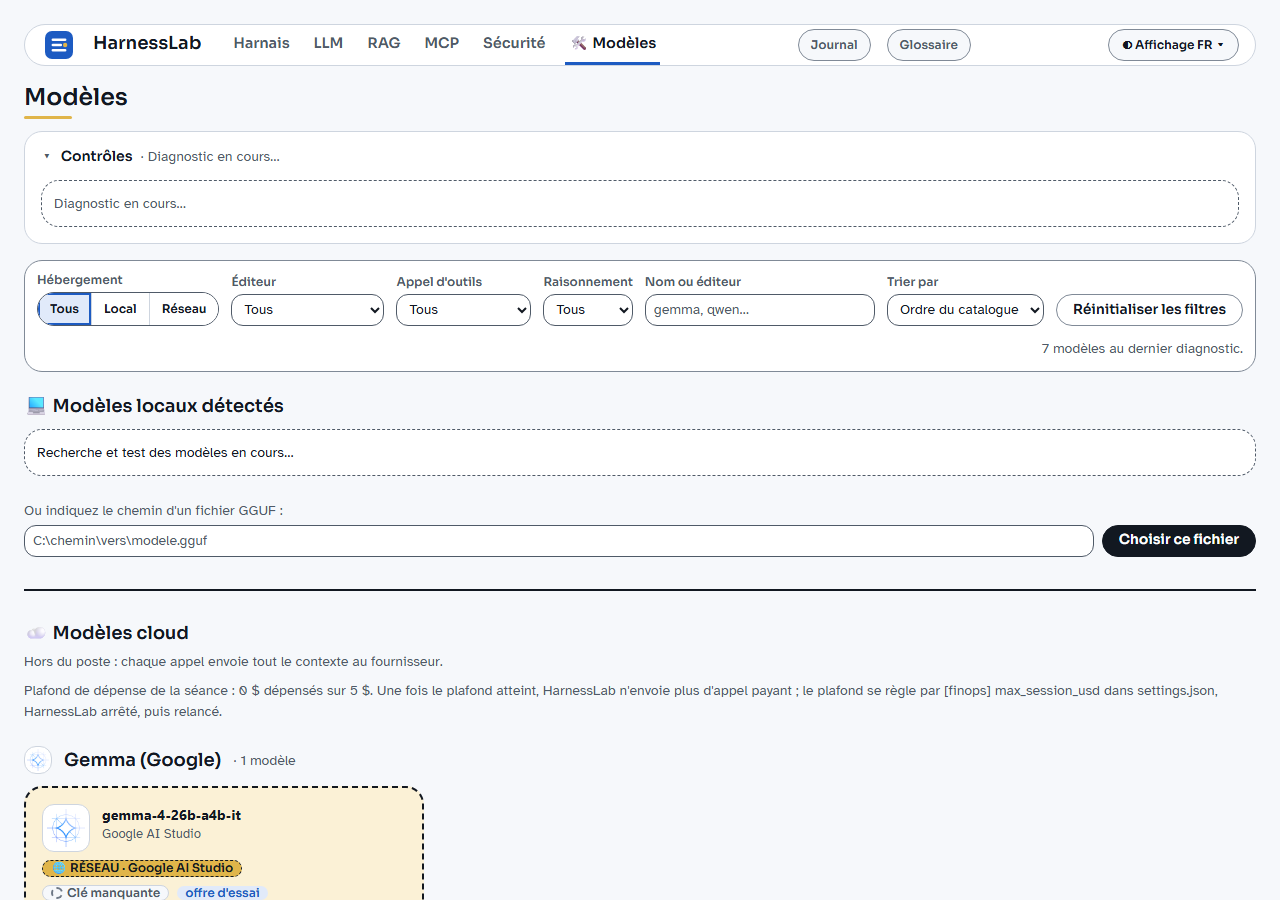
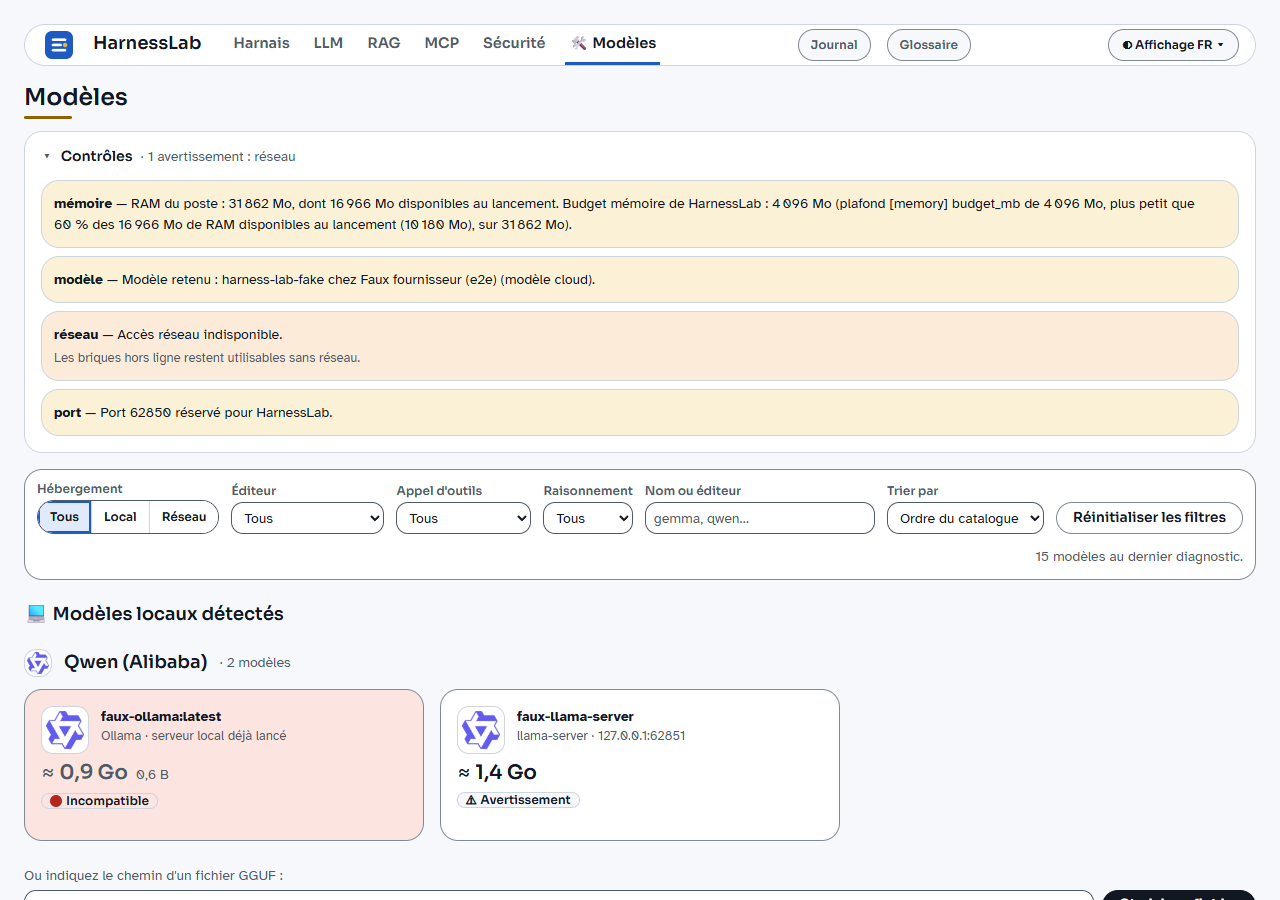
v2.1.1 : filet or en clair conforme à la charte (accent #8F6300) (#178)
* v2.1.1 : filet or des titres en clair à la valeur accent de la charte

* Revue passe 1 : DESIGN aligné (filet, palette), test par bloc, captures claires complètes

Claude-Session: https://claude.ai/code/session_013Ao9KA4hxeZXhrqkXDoPk8

---------

diff --git a/src/harness_lab/web/static/tokens.css b/src/harness_lab/web/static/tokens.css
@@ -198,7 +198,7 @@
   --color-on-discipline: #FFFFFF;
   --color-on-vivid: #141A1F;
   --color-on-status: #FFFFFF;
-  --color-title-rule: #E0B54A;
+  --color-title-rule: #8F6300;
   --color-warning-soft: #FDEBDA;
   --color-danger-soft: #FCE4E1;
   --color-logo-tile: #FFFFFF;
@@ -268,7 +268,7 @@
     --color-on-discipline: #FFFFFF;
     --color-on-vivid: #141A1F;
     --color-on-status: #FFFFFF;
-    --color-title-rule: #E0B54A;
+    --color-title-rule: #8F6300;
     --color-warning-soft: #FDEBDA;
     --color-danger-soft: #FCE4E1;
     --color-logo-tile: #FFFFFF;

diff --git a/tests/test_web_tokens.py b/tests/test_web_tokens.py
@@ -819,5 +819,23 @@ def test_the_icon_and_the_pictogram_are_the_charte_ones():
 def test_the_gold_rule_sits_under_the_page_titles():
     css = PAGES_CSS.read_text(encoding="utf-8")
     assert "#llm-title::after" in css and "background: var(--color-title-rule)" in css
-    assert _palettes()["clair"]["title-rule"] == "#E0B54A"
-    assert _palettes()["sombre"]["title-rule"] == "#E3C26B"
+    palettes = _palettes()
+    # The rule is a fine mark: the v2.1 `accent` of each theme, never the `accent-aplat` fill.
+    for theme, expected in (("clair", "#8F6300"), ("sombre", "#E3C26B")):
+        palette = palettes[theme]
+        assert palette["title-rule"] == expected == palette["accent"]
+        for ground in ("surface", "surface-raised"):
+            assert _contrast(palette["title-rule"], palette[ground]) >= 3.0, (theme, ground)
+    # The same values in the CSS: dark `:root`, light attribute block, light media query.
+    tokens = (STATIC_DIR / "tokens.css").read_text(encoding="utf-8")
+    light_attr, light_media = ':root[data-theme="light"]', "@media (prefers-color-scheme: light)"
+    blocks = {
+        "dark :root": (tokens[: tokens.index(light_attr)], "#E3C26B"),
+        "light attribute": (
+            tokens[tokens.index(light_attr) : tokens.index(light_media)],
+            "#8F6300",
+        ),
+        "light media": (tokens[tokens.index(light_media) :], "#8F6300"),
+    }
+    for name, (block, value) in blocks.items():
+        assert re.findall(r"--color-title-rule: (#\w+);", block) == [value], name

diff --git a/_bmad-output/planning-artifacts/ux-designs/ux-agentic-harness-training-demo-2026-09-22/DESIGN.md b/_bmad-output/planning-artifacts/ux-designs/ux-agentic-harness-training-demo-2026-09-22/DESIGN.md
@@ -67,7 +67,7 @@ colors:
   on-discipline: '#FFFFFF'
   on-vivid: '#141A1F'
   on-status: '#FFFFFF'
-  title-rule: '#E0B54A'
+  title-rule: '#8F6300'
   warning-soft: '#FDEBDA'
   danger-soft: '#FCE4E1'
   logo-tile: '#FFFFFF'
@@ -952,7 +952,7 @@ components:
 > |---|---|---|---|
 > | `surface` / `surface-raised` | `fond` / `surface` | `line` / `line-strong` | `trait` / `trait-fort` |
 > | `ink` / `ink-soft` / `muted` | `texte` / `texte-attenue` / `neutre` | `primary` / `primary-deep` / `primary-soft` | `primaire` / `primaire-vif` / `primaire-doux` |
-> | `accent` / `title-rule` / `hosting-network` | `accent` / `accent-aplat` | `warning` / `warning-line` / `warning-soft` | `alerte` / `alerte-texte` / `alerte-doux` |
+> | `accent` / `title-rule` / `hosting-network` | `accent` (`hosting-network` : `accent-aplat`) | `warning` / `warning-line` / `warning-soft` | `alerte` / `alerte-texte` / `alerte-doux` |
 > | `danger` / `danger-soft` | `erreur` / `erreur-doux` | `state-active`, `state-ok` | `succes` |
 > | `state-blocked`, `state-error` | `erreur` | `state-unavailable` | `neutre` |
 > | `ink-fill` / `ink-fill-edge` | `encre-pleine` / `trait-fort` | `on-ink` / `on-ink-soft` | `sur-encre` / `sur-encre-attenue` |
@@ -1084,12 +1084,12 @@ Une palette dessinée, jeton par jeton : chaque clé de `colors` a son jumeau `{
 | Groupe | Jeton | Clair | Sombre |
 |---|---|---|---|
 | Charte | `primary`, `primary-deep`, `primary-soft` | `#0B6B78`, `#084E58`, `#DCEFF1` | `#4FC1CF`, `#86D8E2`, `#123339` |
-| Charte | `accent`, `accent-soft` | `#B4500F`, `#FBE7D7` | `#F29A57`, `#3A2415` |
+| Charte | `accent`, `accent-soft` | `#8F6300`, `#FBF1D6` | `#E3C26B`, `#3A3112` |
 | Charte | `ink`, `ink-soft`, `muted`, `line` | `#141A1F`, `#4B5560`, `#737E85`, `#C9D1D3` | `#E7ECEE`, `#A2AFB7`, `#8C989F`, `#56605F` |
 | Charte | `surface`, `surface-raised` | `#F7F8F6`, `#FFFFFF` | `#0E1316`, `#161D21` |
 | Charte | `warning`, `danger`, `on-primary` | `#E8A317`, `#B42318`, `#FFFFFF` | `#F2C14E`, `#F28B82`, `#052227` |
 | Relief | `relief`, `relief-active`, `dot` | `#CFE3E6`, `#B8D6DB`, `#D3DDDF` | `#1B3A40`, `#24505A`, `#252F34` |
-| Hébergement | `hosting-network`, `hosting-boundary` | `#E8A317`, `#141A1F` | `#F2C14E`, `#E7ECEE` |
+| Hébergement | `hosting-network`, `hosting-boundary` | `#E0B54A`, `#141A1F` | `#E3C26B`, `#E7ECEE` |
 | États | `state-active`, `state-ok` | `#1D7337` | `#7CC59B` |
 | États | `state-blocked`, `state-error`, `state-unavailable` | `#B42318`, `#B42318`, `#737E85` | `#F28B82`, `#F28B82`, `#8C989F` |
 | Segments | `system-prompt`, `global-memory`, `tool-descriptions`, `history` | `#0B7A86`, `#617A12`, `#2F68D0`, `#50607A` | `#4FC1CF`, `#A9C64A`, `#7FA8F5`, `#9AAAC2` |

diff --git a/CHANGELOG.md b/CHANGELOG.md
@@ -1,5 +1,18 @@
 # Changelog
 
+## 2.1.1 — 2026-11-06
+
+Correctif : filet or des titres en thème clair.
+
+### Contenu
+
+- **Filet or en clair** : `--color-title-rule` prend la valeur `accent` de la charte v2.1 (`#8F6300` en clair, 5,31:1 sur `surface`) au lieu de `accent-aplat` (`#E0B54A`, 1,9:1). Le sombre est inchangé (`#E3C26B`). `DESIGN.md` et `tests/test_web_tokens.py` réalignés (valeur par thème, contraste 3:1 sur `surface` et `surface-raised` dans les deux thèmes).
+- **Captures** : `docs/media/charte-v2/` refaites en clair pour les pages à filet (LLM, RAG, MCP, Sécurité, Modèles), diagnostic terminé et modèle choisi.
+
+### Limites
+
+- Les captures sont prises sur la pile e2e (faux modèle cloud, réseau coupé) : l'avertissement « réseau » du diagnostic y est normal.
+
 ## 2.1.0 — 2026-11-06
 
 Migration de l'interface vers la charte générique v2.1 (sombre d'abord, jetons choisis par usage).
